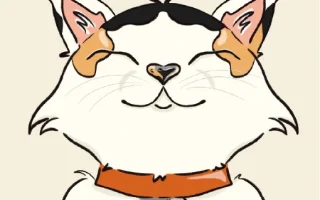
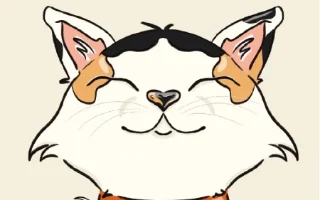
Portfolio: el gatito de Felinorte con las orejas completas

diff --git a/portfolio/index.html b/portfolio/index.html
@@ -1503,7 +1503,7 @@ html.has-cursor.in-frame,html.has-cursor.in-frame *{cursor:auto!important}
           </span>
         </div>
         <div class="pcard">
-          <a class="pc-img" href="#editorial" data-open="editorial" aria-label="Abrir Descubriendo Felinorte"><img src="/assets/portfolio/thumbs/felinorte-gato.webp" alt="Portada del libro Descubriendo Felinorte" width="320" height="200" loading="lazy"></a>
+          <a class="pc-img" href="#editorial" data-open="editorial" aria-label="Abrir Descubriendo Felinorte"><img src="/assets/portfolio/thumbs/felinorte-gato.webp?v=2" alt="Portada del libro Descubriendo Felinorte" width="320" height="200" loading="lazy"></a>
           <span>
             <h3><a href="#editorial" data-open="editorial">Descubriendo Felinorte</a></h3>
             <p>Libro ilustrado y diagramado por una de nuestras diseñadoras, como proyecto educativo en 2023.</p>
